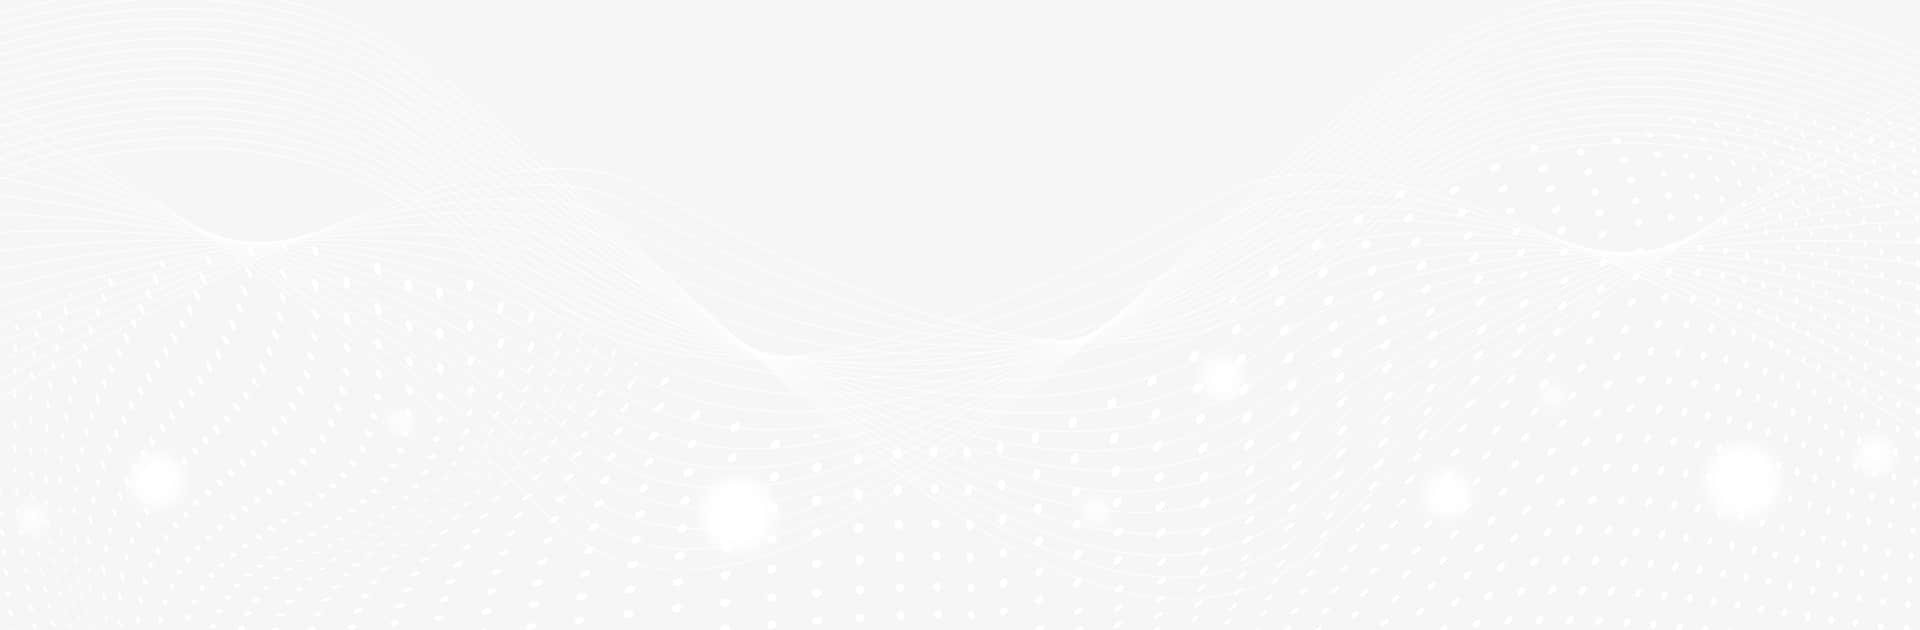
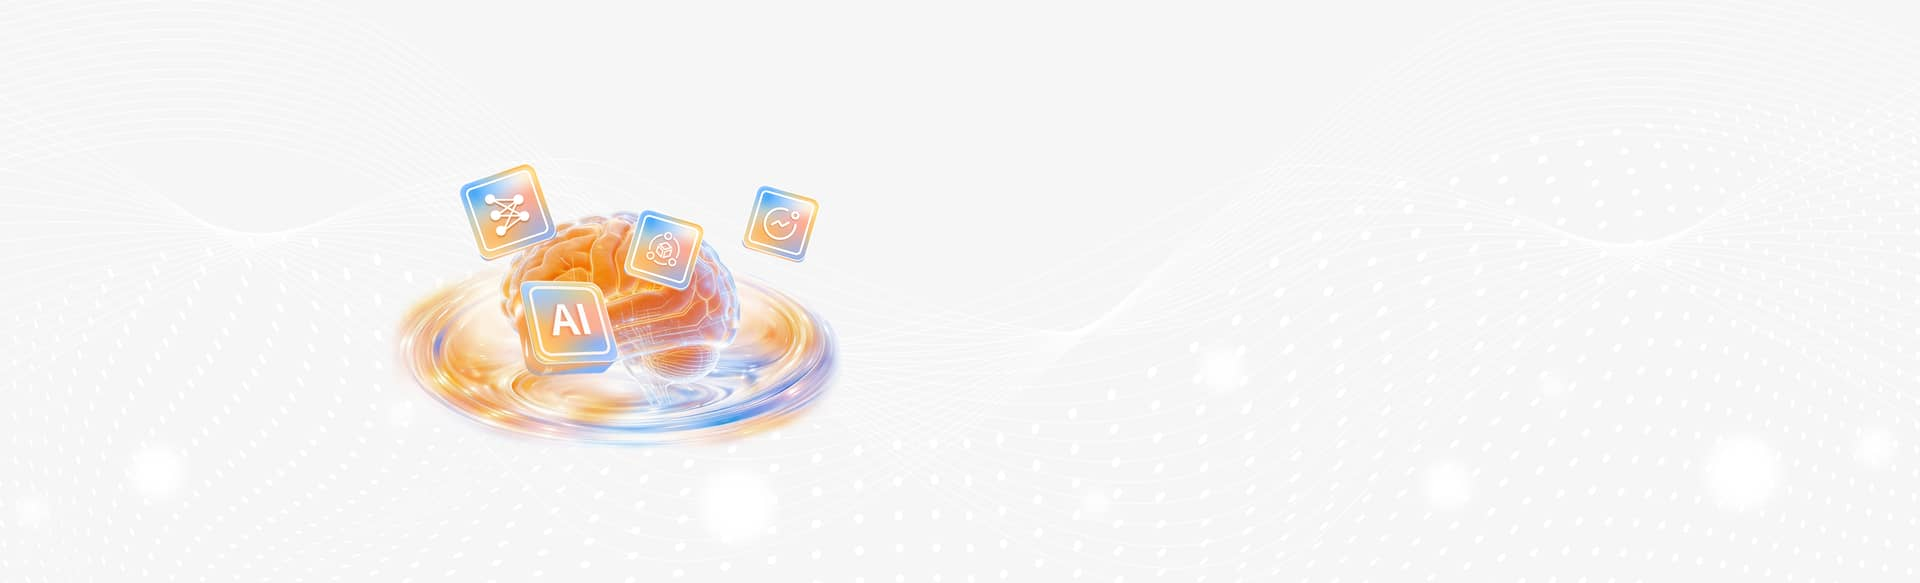
浏览器窗口缩小 待优化

Changed region(s): [[0.1875, 0.2779, 0.4375, 0.7719]]

diff --git a/src/pages/HomePage.tsx b/src/pages/HomePage.tsx
@@ -257,46 +257,35 @@ export default function HomePage() {
         </picture>
       </section>
       <section>
-        <div className="relative overflow-hidden bg-[#F6F6F6] pt-[37px] lg:pt-[1.9271vw]">
-            <picture className="pointer-events-none absolute inset-0 z-0 block h-full w-full">
+        <div className="relative overflow-hidden bg-[#F6F6F6]">
+          <div className="relative grid grid-cols-1">
+            <picture className="pointer-events-none col-start-1 row-start-1 z-0 block w-full max-w-full self-start">
               <source srcSet={techBgAvif} type="image/avif" />
               <source srcSet={techBgWebp} type="image/webp" />
               <img
                 src={techBgJpg}
                 alt=""
                 width={1920}
-                height={630}
-                className="h-full w-full object-cover"
+                height={583}
+                className="block h-auto w-full max-w-full"
+                sizes="100vw"
                 loading="eager"
                 fetchPriority="low"
                 decoding="async"
               />
             </picture>
-            <h2 className="relative z-10 text-center font-['PingFang_SC'] text-[30px] font-semibold leading-tight text-[#f96d01] md:text-[36px] lg:text-[2.0833vw]">
-              AI解决方案核心技术驱动力
-            </h2>
-            <div className="relative mx-auto box-border h-[303px] w-[min(100%-24px,1135px)] overflow-hidden lg:h-[15.7813vw] lg:w-[59.1146vw] lg:max-w-none">
-              <picture className="pointer-events-none absolute left-0 top-1/2 z-0 block -translate-y-1/2">
-                <source srcSet={assets.heroIconAvif} type="image/avif" />
-                <source srcSet={assets.heroIconWebp} type="image/webp" />
-                <img
-                  src={assets.heroIcon}
-                  alt=""
-                  width={488}
-                  height={303}
-                  className="block h-auto w-[488px] max-w-[min(488px,50vw)] object-contain object-left lg:w-[25.4167vw] lg:max-w-none"
-                  loading="lazy"
-                  fetchPriority="low"
-                  decoding="async"
-                />
-              </picture>
-              <div className="relative z-10 box-border min-h-0 pl-[clamp(300px,48vw,546px)] pt-[67px] pr-0 lg:pl-[28.4375vw] lg:pt-[3.4896vw]">
-                <div className="h-64 w-[589px] max-w-full justify-start text-left indent-[2em] text-[16px] leading-[1.7] tracking-[0.03em] font-['PingFang_SC'] text-black sm:text-[18px] md:text-[19px] lg:h-[13.3333vw] lg:w-[30.6771vw] lg:max-w-none lg:text-[1.0417vw]">
-                  强化学习、生成式模型、自进化智能体、算子学习等前沿技术为核心，构建“物理 + 数据”双轮驱动的技术体系，打造面向聚变装置的智能诊断、动态预测、实时控制与辅助设计能力，最终形成聚变电站的智能操作系统——终极能源的智慧大脑。
+            <div className="col-start-1 row-start-1 z-10 flex w-full min-w-0 flex-col">
+              <h2 className="relative pt-[37px] lg:pt-[1.9271vw] text-center font-['PingFang_SC'] text-[30px] font-semibold leading-tight text-[#f96d01] md:text-[36px] lg:text-[2.0833vw]">
+                AI解决方案核心技术驱动力
+              </h2>
+              <div className="relative mx-auto box-border  w-[min(100%-24px,1135px)] overflow-hidden  lg:w-[59.1146vw] lg:max-w-none">
+                <div className="relative z-10 box-border min-h-0 pl-[clamp(300px,48vw,546px)] pt-[67px] pr-0 lg:pl-[28.4375vw] lg:pt-[3.4896vw]">
+                  <div className=" w-[589px] max-w-full justify-start text-left indent-[2em] font-['PingFang_SC'] text-[max(16px,calc(100vw*24/1920))] leading-[1.7] tracking-[0.03em] text-black  lg:w-[30.6771vw] lg:max-w-none">
+                    强化学习、生成式模型、自进化智能体、算子学习等前沿技术为核心，构建“物理 + 数据”双轮驱动的技术体系，打造面向聚变装置的智能诊断、动态预测、实时控制与辅助设计能力，最终形成聚变电站的智能操作系统——终极能源的智慧大脑。
+                  </div>
                 </div>
               </div>
-            </div>
-              <div className="relative z-10 mx-auto mb-[110px] w-[min(100%-24px,1135px)] pl-[clamp(300px,48vw,546px)] text-left lg:mb-[5.7292vw] lg:w-[59.1146vw] lg:max-w-none lg:pl-[28.4375vw]">
+              <div className="relative mx-auto mt-[max(12px,calc(100vw*50/1920))] w-[min(100%-24px,1135px)] pl-[clamp(300px,48vw,546px)] text-left lg:w-[59.1146vw] lg:max-w-none lg:pl-[28.4375vw]">
                 <Link
                   to="/tech"
                   data-node-id="838:1351"
@@ -305,6 +294,8 @@ export default function HomePage() {
                   查看详情
                 </Link>
               </div>
+            </div>
+          </div>
         </div>
       </section>
         <Team />

diff --git a/src/pages/TechCorePage.tsx b/src/pages/TechCorePage.tsx
@@ -44,11 +44,6 @@ export default function TechCorePage() {
               当前，核聚变正成为全球科技竞争与能源变革的关键战略方向，而人工智能的快速发展，正在显著改写其研发范式。长期以来，聚变研发面临参数空间庞大、等离子体行为高度复杂、控制精度要求极高、实验与试错成本高昂等核心挑战，导致整体推进周期长、研发效率低。我们判断，AI
               不只是聚变研究的辅助工具，而将成为重塑诊断、预测、控制与设计全流程的关键基础设施，推动可控核聚变从依赖经验的探索式研发，加速迈向以智能预测与主动控制为核心的新阶段。
             </p>
-
-            <h1 className="mt-10 text-center text-[30px] font-semibold leading-tight text-[#f96d01] md:mt-12 md:text-[36px] lg:mt-[2.9167vw] lg:text-[2.0833vw]">
-              AI解决方案核心技术驱动力
-            </h1>
-
             <div
               className="relative z-0 mx-auto mt-8 box-border flex min-h-[24.7396vw] w-full max-w-full flex-col justify-end px-2 pb-6 sm:mt-10 sm:pb-7 md:mt-12 md:pb-8 lg:mt-[2.3958vw] lg:pb-[1.6667vw]"
               data-node-id="297:88"
@@ -84,7 +79,7 @@ export default function TechCorePage() {
               </div>
             </div>
 
-            <p className="mt-10 indent-[2em] text-[16px] leading-[1.7] text-black sm:mt-12 sm:text-[18px] md:mt-14 md:text-[19px] lg:mt-[2.9167vw] lg:text-[1.0417vw]" data-node-id="297:87">
+            <p className="mt-10 indent-[2em] text-[max(16px,calc(100vw*24/1920))] leading-[1.7] text-black sm:mt-12 md:mt-14 lg:mt-[2.9167vw]" data-node-id="297:87">
               基于这一判断，新烛时代于 2025 年 9
               月成立，致力于以人工智能破解核聚变领域最关键的控制与预测难题。公司以强化学习、生成式模型、自进化智能体、算子学习等前沿技术为核心，构建“物理 +
               数据”双轮驱动的技术体系，打造面向聚变装置的智能诊断、动态预测、实时控制与辅助设计能力。我们的目标，是为未来聚变反应堆打造专属的“智能操作系统”，将分散、模糊、依赖专家经验的知识与流程，沉淀为可复制、可量化、可部署的智能能力，持续提升聚变研发效率，降低研发成本，加速聚变能源走向工程化与商业化。

diff --git a/src/components/Partners.tsx b/src/components/Partners.tsx
@@ -36,7 +36,7 @@ export default function Partners() {
             <div className="mx-auto w-full" style={{ maxWidth: CONTENT_MAX_WIDTH }}>
               {/* Figma 838:1310 — PingFang Medium，40px，#f96d01；文案勿删 */}
               <h2
-                className="m-0 mb-[clamp(40px,3.33vw,72px)] text-center font-['PingFang_SC',sans-serif] font-medium leading-normal text-[#f96d01] text-[clamp(1.75rem,2.083vw,2.5rem)]"
+                className="type-title-xl m-0 mb-[clamp(40px,3.33vw,72px)] text-center font-['PingFang_SC',sans-serif] !font-medium !leading-normal text-[#f96d01]"
                 data-node-id="838:1310"
               >
                 数字化资源支撑矩阵
